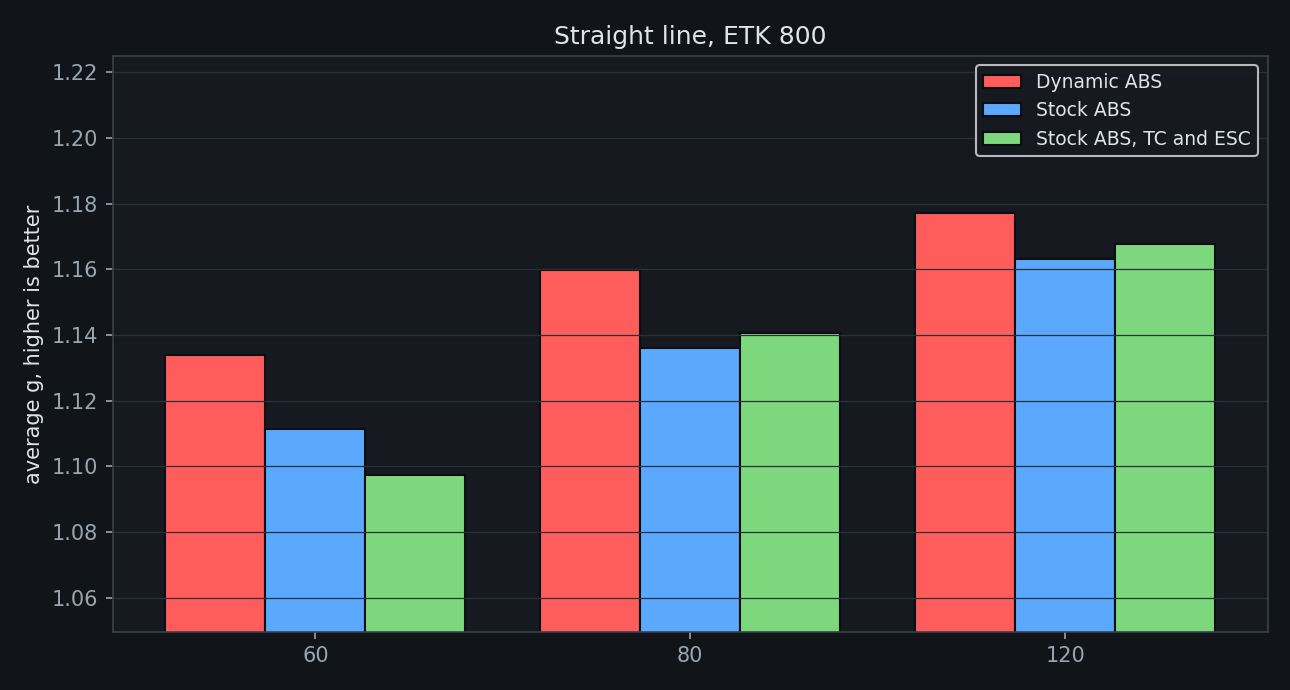
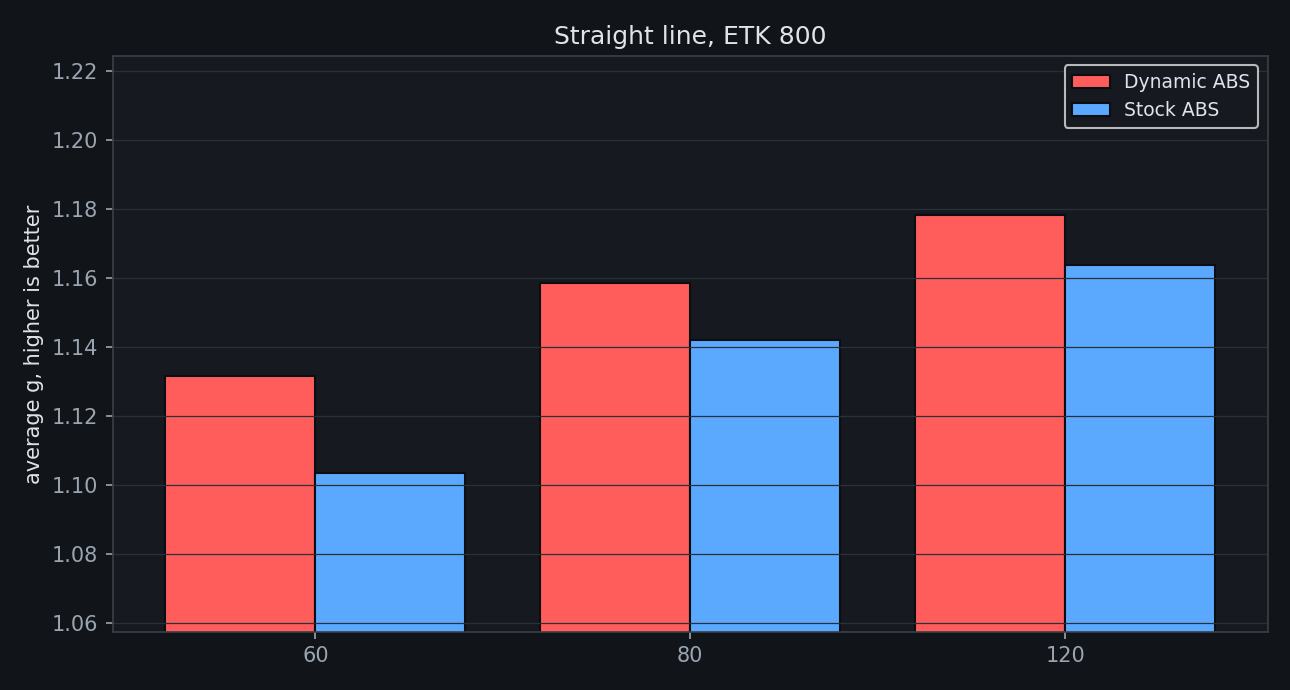
Publish V4.00: results rebuilt with a full respawn before every stop, so no state carries between measurements

diff --git a/README.md b/README.md
@@ -19,7 +19,11 @@ An anti lock braking controller for BeamNG.drive. It replaces the stock ABS on t
 
 ## Measured against the stock ABS
 
-Every number comes from the same measurement: braking at full pedal, distance taken as the chord from the moment true speed crosses the target down to 1 metre per second, average g derived from speed and distance. Speed and position are sampled in the physics step at 2000 hertz, so frame rate cannot affect a result. Stock ABS is measured in reference blocks at the start, the middle and the end of every session to bound drift.
+Every number comes from the same measurement: braking at full pedal, distance taken as the chord from the moment true speed crosses the target down to 1 metre per second, average g derived from speed and distance. Speed and position are sampled in the physics step at 2000 hertz, so frame rate cannot affect a result.
+
+Every stop starts from a freshly spawned vehicle, so brake temperature, damage and drivetrain state cannot carry from one measurement into the next, and the two controllers swap which one runs first on alternate repetitions so run order cannot favour either. Brake surface temperature is recorded at the start and the end of every stop and is published with the raw data.
+
+A campaign is published as it fills rather than only when it is complete, so these figures gain precision over successive updates. Every published set is balanced: a repetition covers every car, speed and controller before the next one begins, so no cell carries more stops than another. The run count behind each cell is on the wiki pages.
 
 The figures below are averaged across every car tested, so they describe the controller rather than any one vehicle. Per car tables and charts are in the wiki.
 
@@ -29,15 +33,17 @@ Tested on BeamNG.drive 0.39.4.0.20972 for the surface areas and BeamNG.tech 0.37
 
 | Speed | Average g against stock | Cars |
 |---|---|---|
-| 60 miles per hour | +0.0046 | 4 |
-| 80 miles per hour | +0.0511 | 4 |
-| 120 miles per hour | +0.0709 | 4 |
-| 160 miles per hour | +0.1146 | 2 |
-| 180 miles per hour | +0.1156 | 2 |
+| 60 miles per hour | +0.0106 | 4 |
+| 80 miles per hour | +0.0054 | 4 |
+| 120 miles per hour | +0.0126 | 4 |
+| 160 miles per hour | +0.0442 | 2 |
+| 180 miles per hour | +0.0417 | 2 |
 
 ### Cornering
 
 Sweeping left corners at 60 miles per hour with full brake, at the steer angles where the controllers separate most.
+
+These cornering figures are provisional. They were collected before the fresh spawn rule described above, so brake state carries between stops. They are being re measured and this table will be replaced when that finishes.
 
 | Steer | Stopping distance against stock | Cars |
 |---|---|---|
@@ -48,6 +54,8 @@ Sweeping left corners at 60 miles per hour with full brake, at the steer angles 
 ### Surfaces
 
 Recorded areas on gridmap: ice, grass, sand, inclines, a jump and three bump sections.
+
+These surface figures were collected before the fresh spawn change above, so they carry brake heat from one test point to the next and are being re measured. Read them as provisional. The straight line and cornering figures on this page do not have that problem.
 
 These averages hide a real split, so read the per car page before drawing a conclusion from them. Results on ice and on the bump sections depend strongly on the car. One vehicle loses about a third of its braking on the bump sections while the other two gain there, and that single result pulls every bump average below zero.
 
@@ -62,14 +70,6 @@ These averages hide a real split, so read the per car page before drawing a conc
 | Incline 35 deg | -0.0707 | 3 |
 | Sand | +0.0141 | 3 |
 | Small jump | +0.0039 | 3 |
-
-
-### Measurement checks
-
-The campaigns ran with the simulation faster than real time and in a headless instance. Both were
-tested against the alternative rather than assumed, forty stops alternating one run at a time. The
-spread across all four combinations was 0.011 g against a run to run spread of 0.026, so neither
-setting changes a result. Detail is in [results/RESULTS.md](results/RESULTS.md).
 
 ## More detail
 

diff --git a/results/SURFACE.md b/results/SURFACE.md
@@ -2,6 +2,8 @@
 
 DynamicABS against Stock ABS on the recorded gridmap areas: ice, grass, sand, inclines, a small jump and three bump sections. Average g is the standard metric, higher is better. Every cell is three runs per controller.
 
+These figures are provisional. They were collected before the fresh spawn rule described on the testing method page, so brake heat carries from one stop point to the next within a car and controller block. The straight line and cornering pages do not have that problem. This suite is being re measured and this page will be replaced when it is.
+
 ## ETK 800
 
 | Area | DynamicABS g | Stock ABS g | Difference |

diff --git a/results/data/superseded/README.md b/results/data/superseded/README.md
@@ -1,0 +1,3 @@
+# Superseded data
+
+These campaigns spawned a car once per controller per repetition and then ran every speed from that one spawn, so brake state carried from one measurement into the next. They are kept for reference and are not the source of any published number. The current set is the recampaign files in the folder above.
